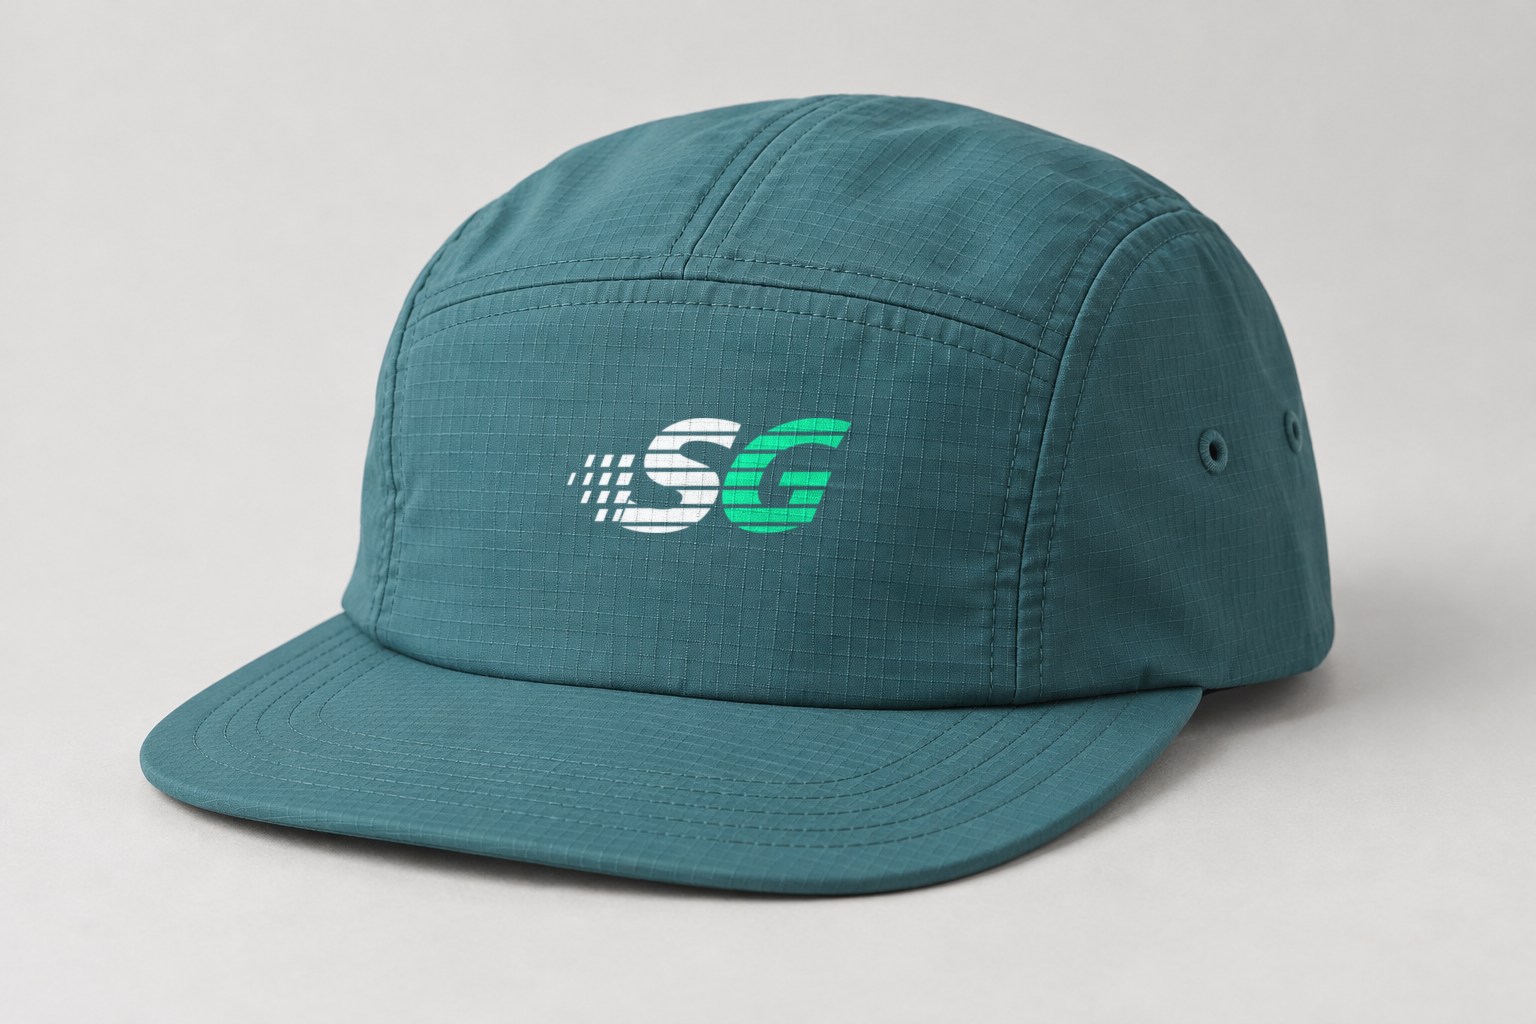
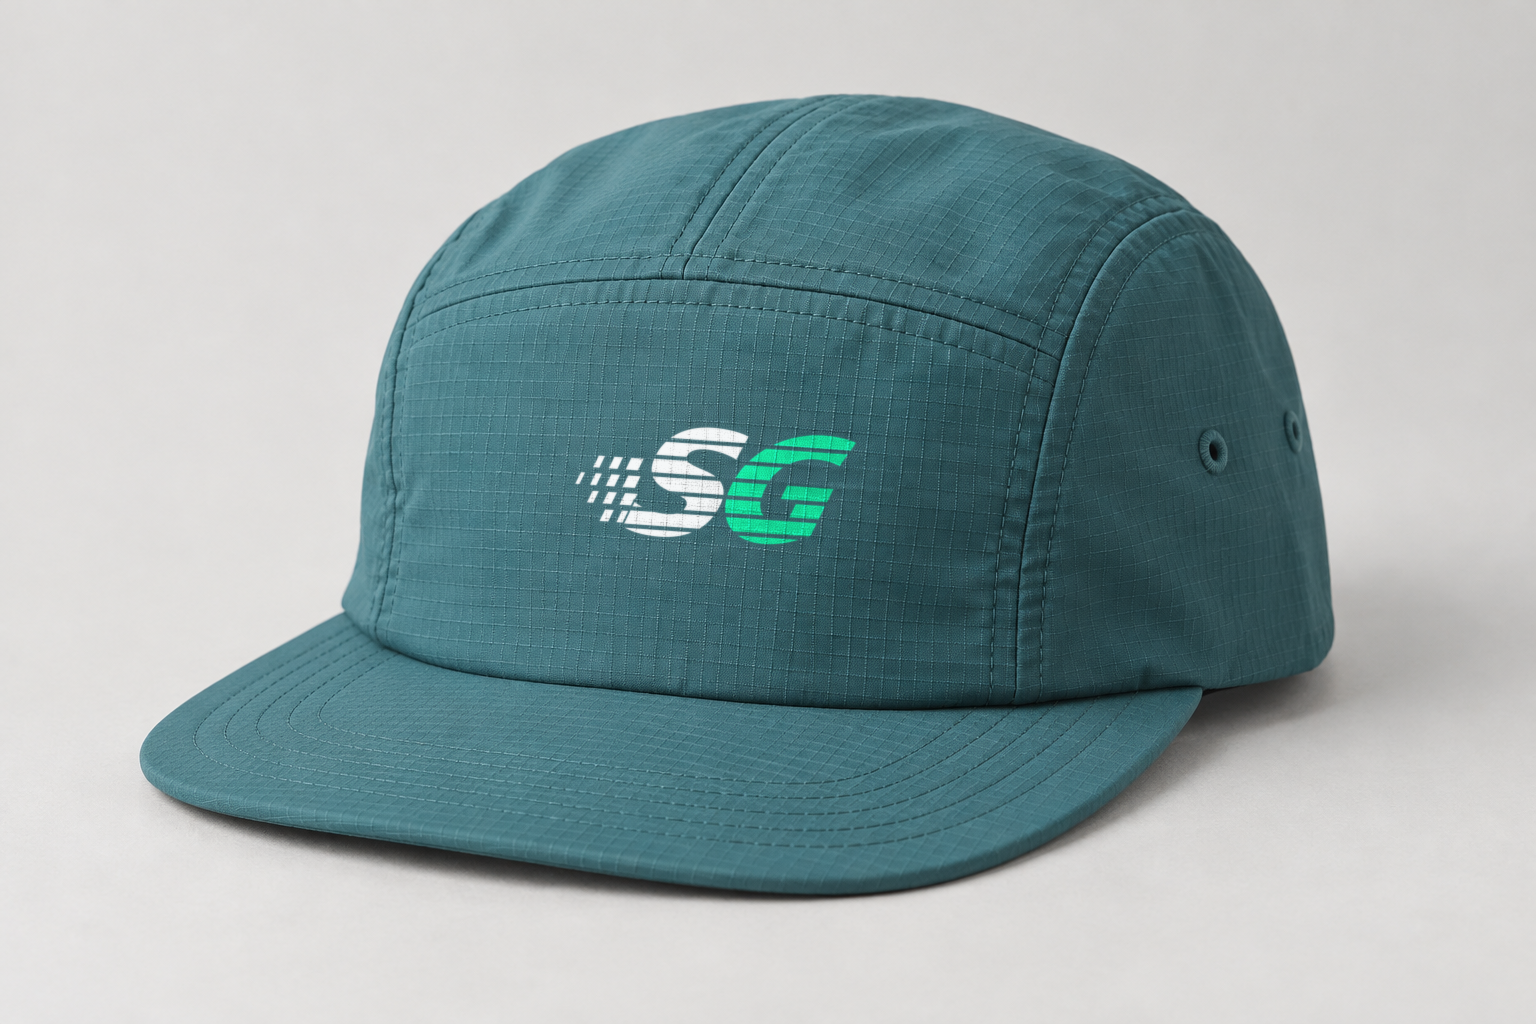
Sport Guardian: cap mark follows the stitched inset, 4 degrees with its seams, centred in it

Changed region(s): [[0.375, 0.4062, 0.5625, 0.5312]]

diff --git a/tools/sport-guardian/print_photo.py b/tools/sport-guardian/print_photo.py
@@ -60,9 +60,12 @@ def cap():
     # the mark alone, centred in the stitched front panel (her request). Measured on the ripstop grid of the
     # front panel: its horizontal lines are level (0 degrees) and its vertical lines lean about 6 degrees, the cap
     # being turned a little. So the print is not rotated; it is sheared to follow the vertical lines.
+    # Then it is turned to follow the stitched inset itself (her request): the inset's top seam and its edge at the
+    # brim both fall about 4 degrees to the right.
     m = mark(); k = 0.105  # tan 6 degrees
     art = m.transform((m.width+int(k*m.height), m.height), Image.AFFINE, (1, k, -k*m.height, 0, 1, 0), resample=Image.BICUBIC)
-    stamp(base, art, 707, 476, 290, strength=.95, blur=.5).save(os.path.join(P, 'cap.png'))
+    art = rot(art, -4)
+    stamp(base, art, 712, 484, 290, strength=.95, blur=.5).save(os.path.join(P, 'cap.png'))
 
 def decks():
     base = Image.open(os.path.join(P, 'decks-base.png')).convert('RGB')
